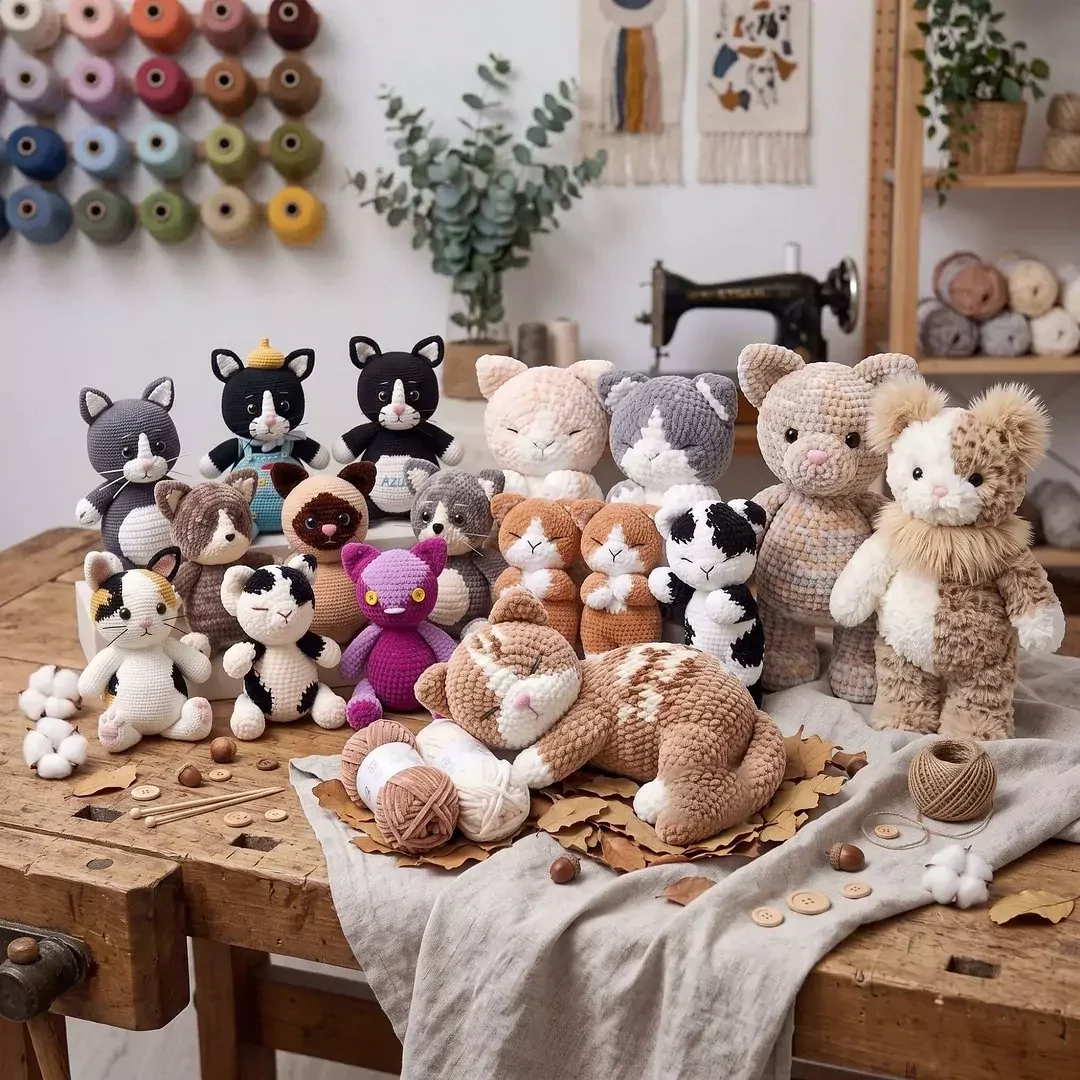
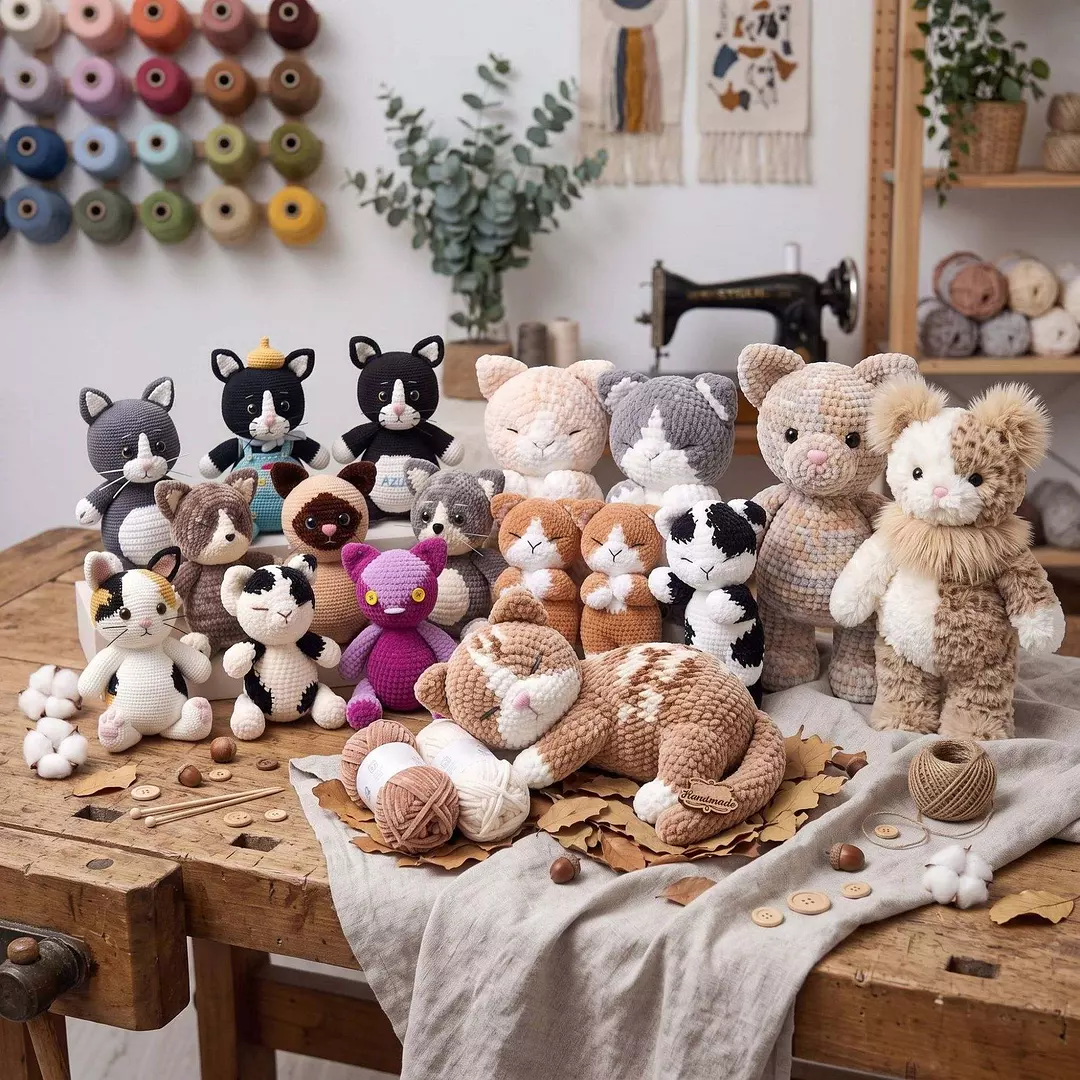
Home hero photo: keep the wooden Handmade tag, wipe only the smudged word
Elise 25/10 found the hip patch too obvious. The photo is rebuilt from the
1932px source: the band above "Handmade" is filled with the tag's own wood
colour and fine grain, so the tag, its swirls and the word stay. The yarn
label numbers are removed again on the full-size image. A 1600w file joins
the srcset so wide screens get a sharp photo. Also: shipping page meta.

Claude-Session: https://claude.ai/code/session_01PLYG5TiggYTJU6oqvA7Biv

Changed region(s): [[0.6111, 0.7028, 0.7028, 0.7639]]

diff --git a/website/index.html b/website/index.html
@@ -61,7 +61,7 @@
         </div>
       </div>
       <div class="hero-art">
-        <img class="hero-photo" src="assets/img/home/hero-crochet-cats-1080.webp" srcset="assets/img/home/hero-crochet-cats-720.webp 720w, assets/img/home/hero-crochet-cats-1080.webp 1080w" sizes="100vw" alt="A worktable crowded with crocheted cats — tabbies, tuxedos, calicos and a Siamese" width="1080" height="1080" fetchpriority="high">
+        <img class="hero-photo" src="assets/img/home/hero-crochet-cats-1080.webp" srcset="assets/img/home/hero-crochet-cats-720.webp 720w, assets/img/home/hero-crochet-cats-1080.webp 1080w, assets/img/home/hero-crochet-cats-1600.webp 1600w" sizes="100vw" alt="A worktable crowded with crocheted cats — tabbies, tuxedos, calicos and a Siamese" width="1080" height="1080" fetchpriority="high">
         <figure class="hero-merlin">
           <img src="assets/img/home/merlin-real-360.webp" alt="Merlin, our real tuxedo cat, in a red holiday bow" width="360" height="360">
           <figcaption>the real Merlin</figcaption>

diff --git a/website/shipping-returns.html b/website/shipping-returns.html
@@ -4,7 +4,7 @@
   <meta charset="UTF-8">
   <meta name="viewport" content="width=device-width, initial-scale=1.0">
   <title>Shipping &amp; returns — Purrlight Studio</title>
-  <meta name="description" content="How Purrlight Studio ships and handles returns: most pieces from our Etsy shop ship with tracking from our Vietnam workshop, duties included; custom orders ship free in the U.S. or can be picked up in Pearland, Texas.">
+  <meta name="description" content="Shipping &amp; returns at Purrlight Studio: most Etsy pieces ship tracked from our Vietnam workshop, duties included; custom orders ship free in the U.S.">
   <meta name="theme-color" content="#FBF6EE">
   <link rel="icon" type="image/png" sizes="32x32" href="assets/brand/favicon-32.png">
   <link rel="icon" type="image/png" sizes="64x64" href="assets/brand/favicon-64.png">
